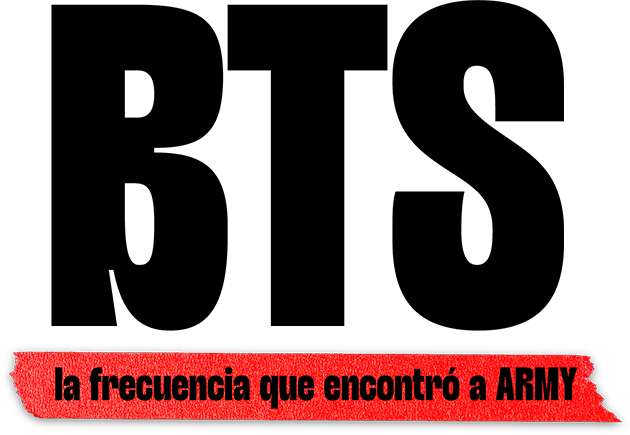
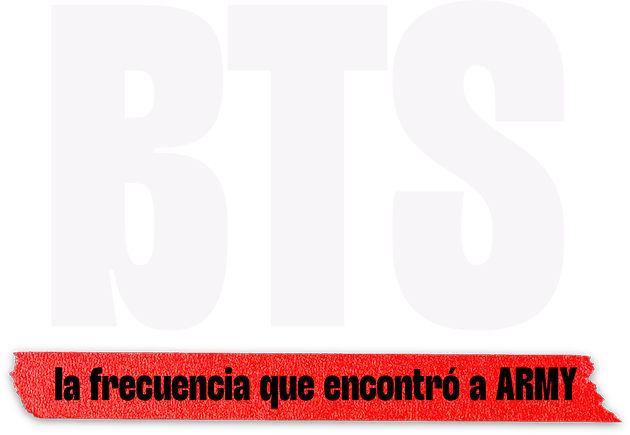
update portada

diff --git a/css/styles.css b/css/styles.css
@@ -451,6 +451,7 @@ img { display: block; max-width: 100%; user-select: none; -webkit-user-drag: non
             width: 100%;
         }
             .box-indicacion-desliza p{
+                color: #fff;
                 font: 1.1rem / 1.4 'Prelo Semibold';
                 text-align: center;
             }
@@ -460,17 +461,18 @@ img { display: block; max-width: 100%; user-select: none; -webkit-user-drag: non
                 max-width: 25px;
             }
 .box-bajada{
-    background-color: #FFFFE3;
+    background-color: #000;
     padding: 30px 0;
 }
     .box-bajada h2{
+        color: #fff;
         font: 1.8rem/1.3 'Monigue Regular';
         margin: 0 auto;
         max-width: 500px;
         text-align: center;
     }
         .box-bajada h2 span{
-            color: #e26068;
+            color: #F42439;
         }
 
 .main-animacion-1{
